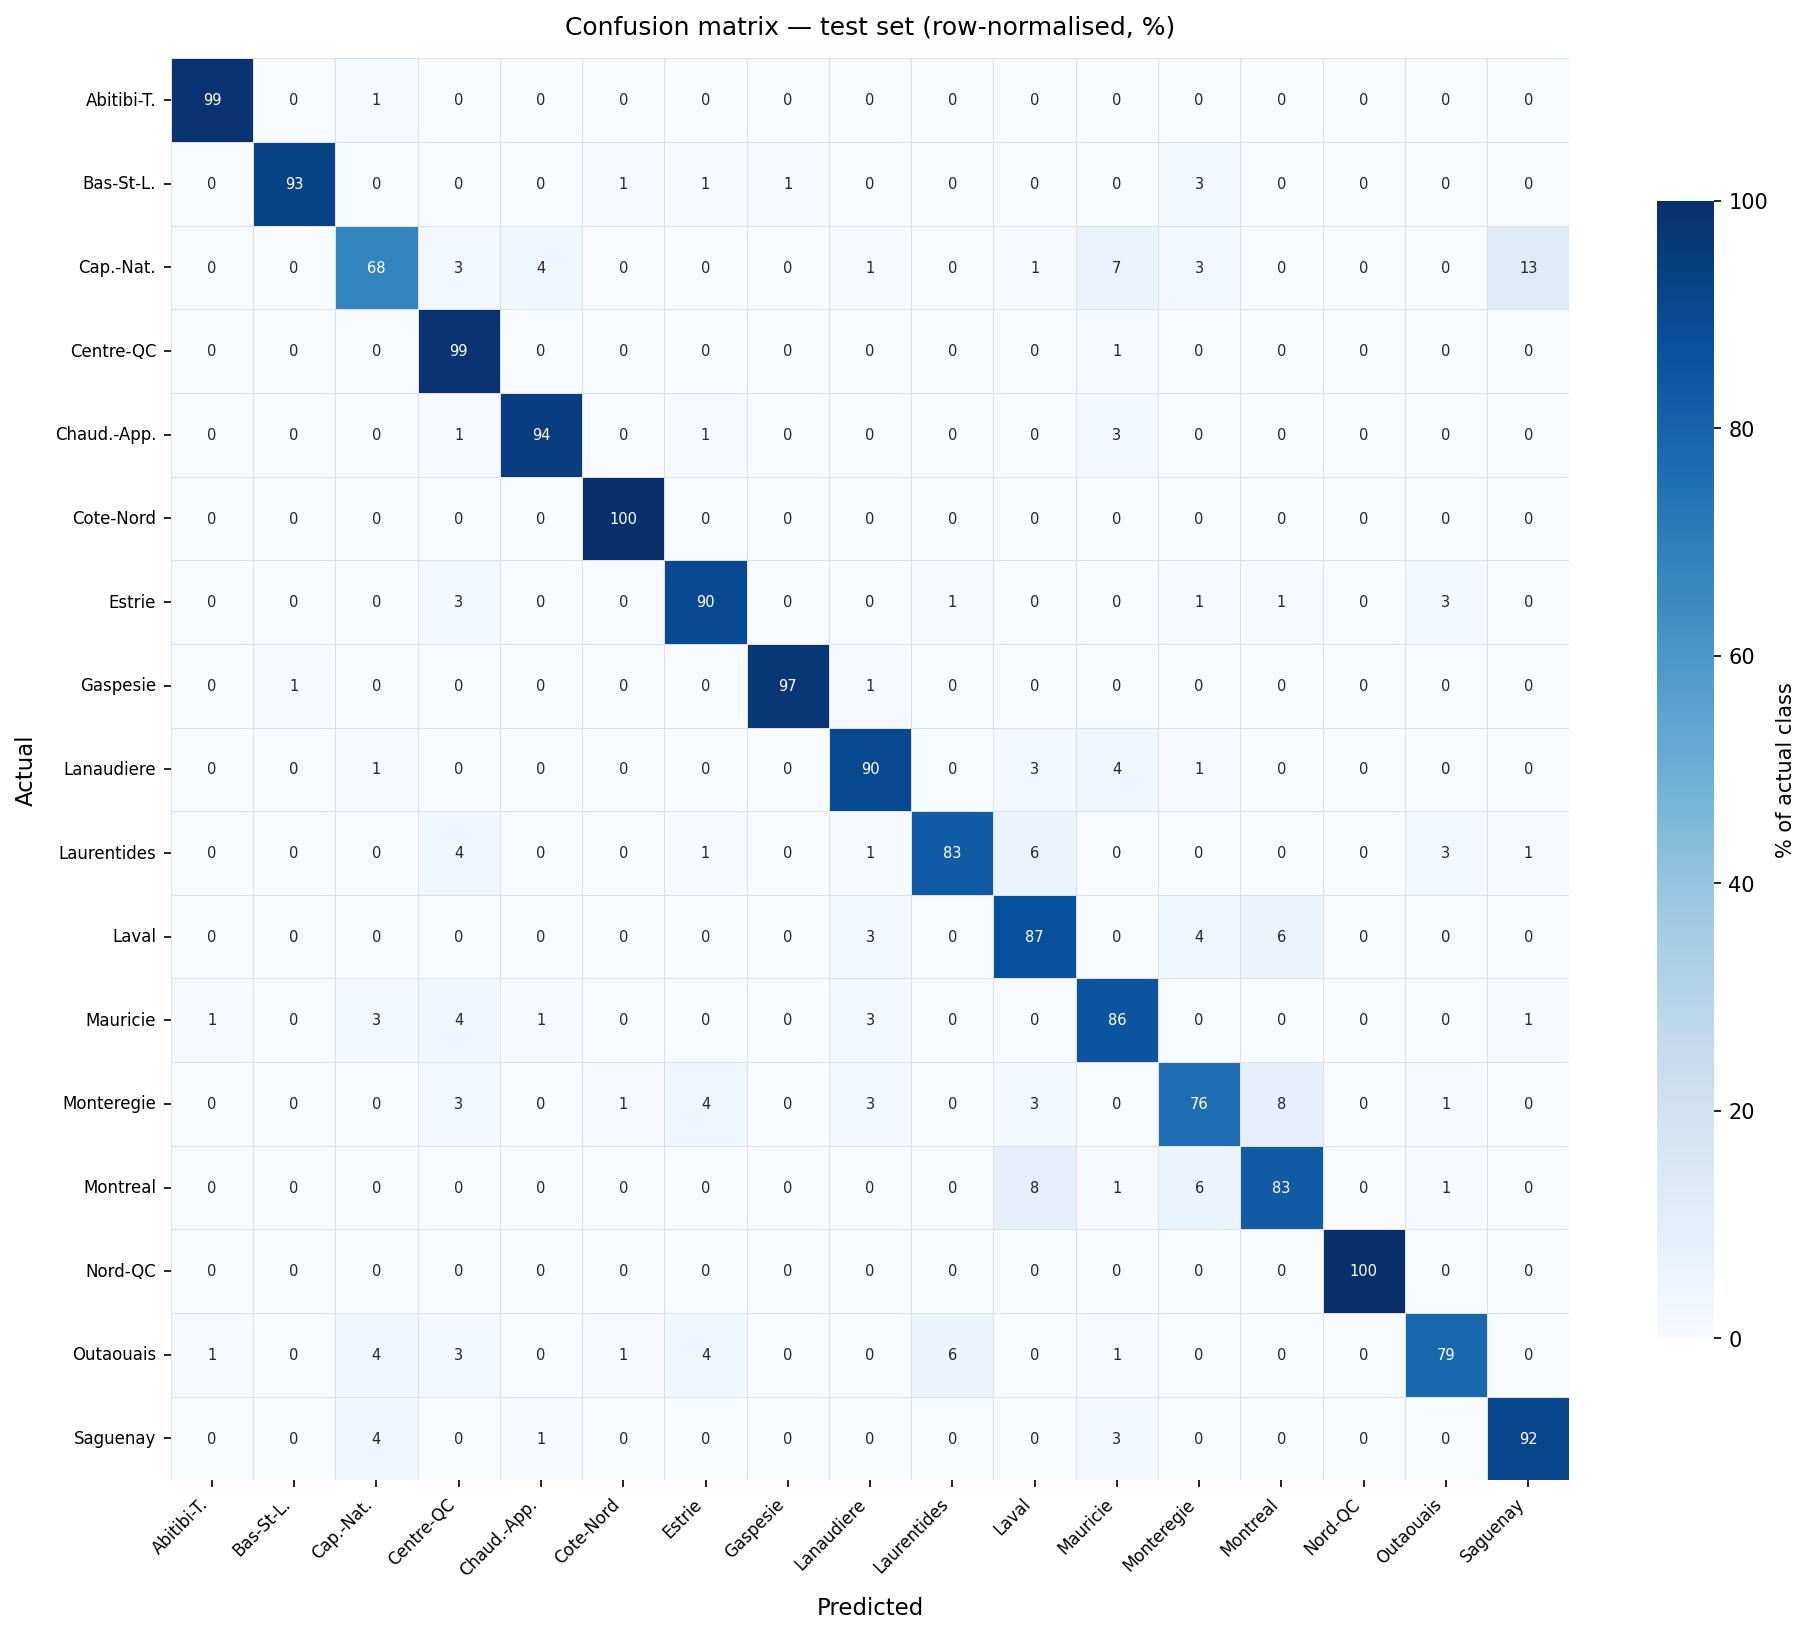
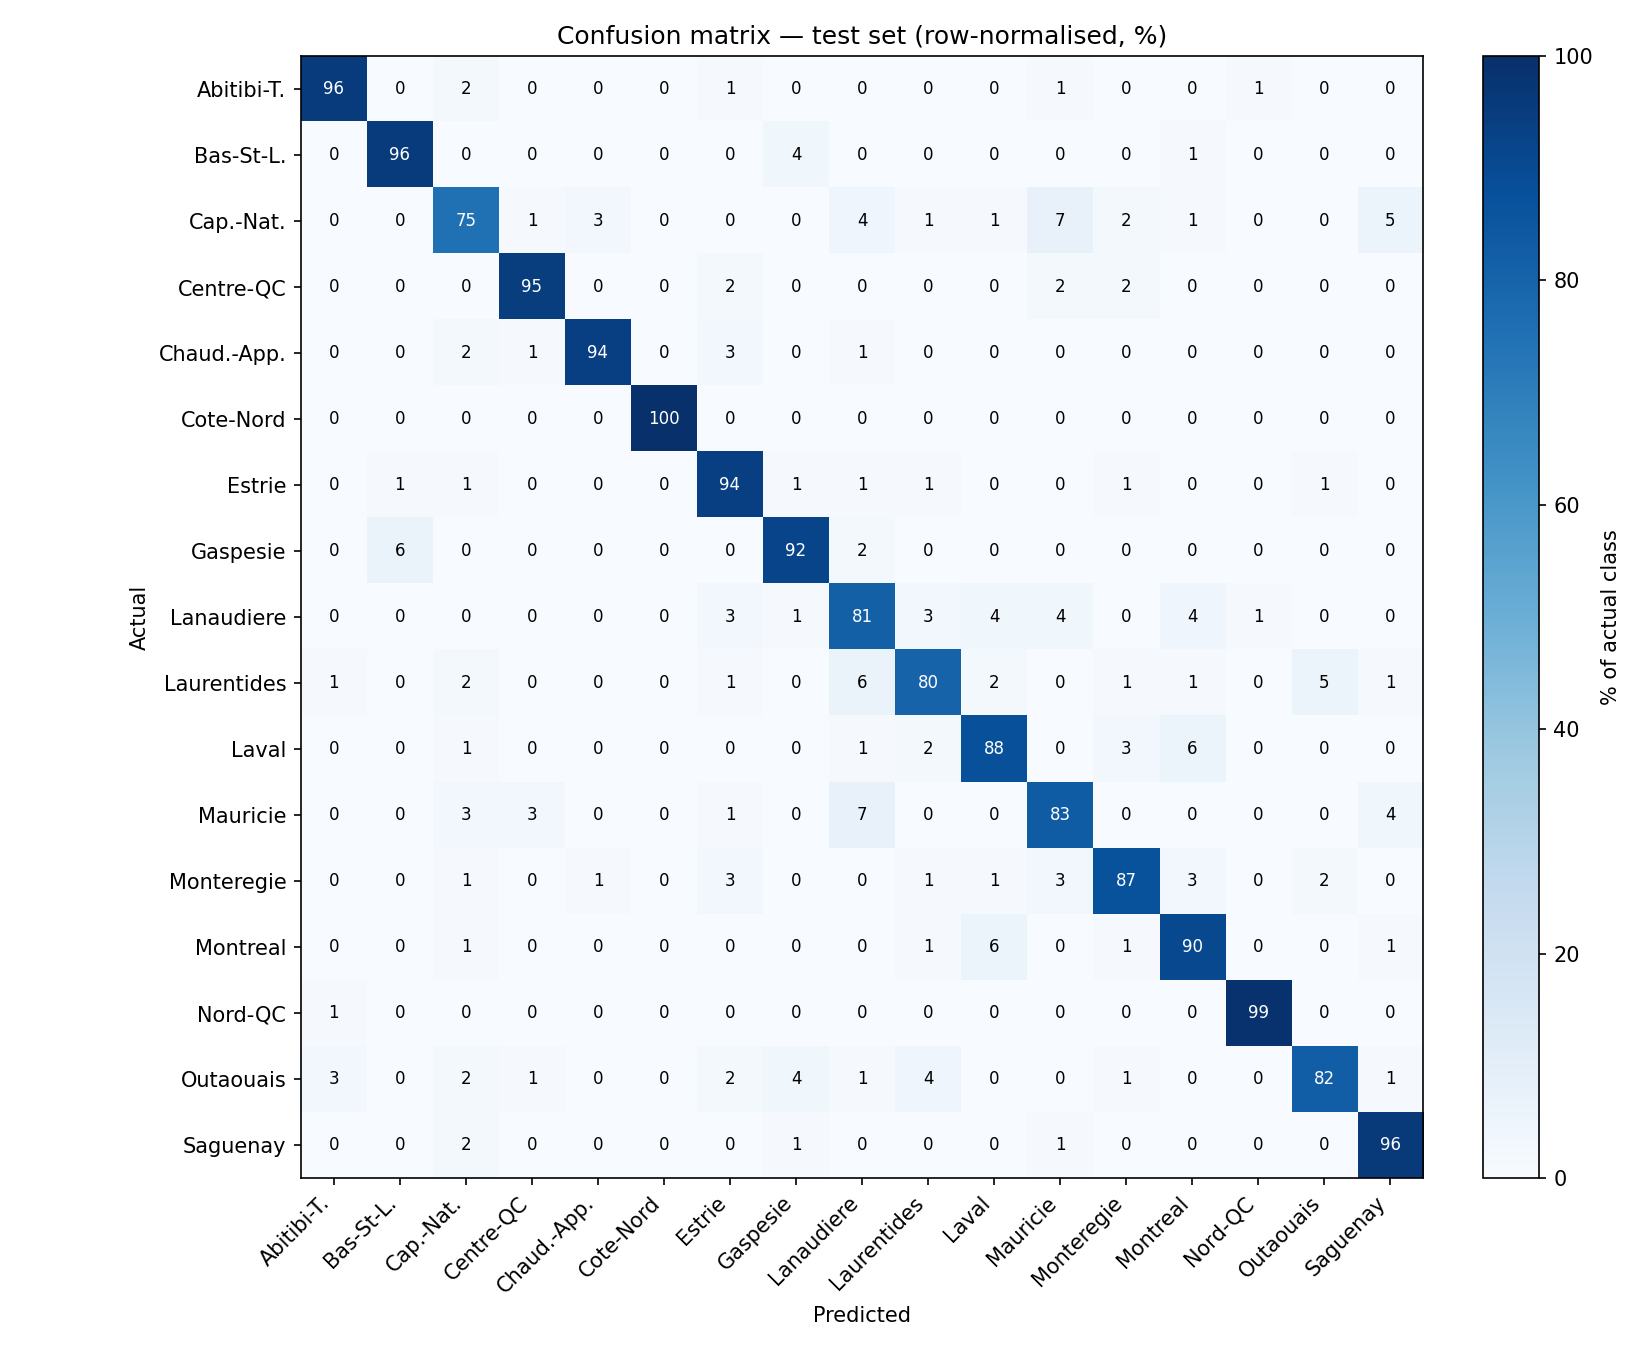
update readme with latest test results and add precision/recall/f1

diff --git a/README.md b/README.md
@@ -6,34 +6,42 @@ A fine-tuned EfficientNet-V2-M that classifies street-level photos into one of Q
 
 | Split      | Accuracy |
 |------------|----------|
-| Validation | 90.8%    |
-| Test       | 88.8%    |
+| Validation | 92.0%    |
+| Test       | 89.8%    |
 
 The ~2% gap between validation and test accuracy is expected: both splits are drawn from the same image pool, but the test set is held out from the beginning and never influences model selection. The remaining gap reflects genuinely ambiguous cases at administrative borders, where a street photo on either side of a boundary can look identical.
 
-### Per-region accuracy (test set)
+### Global metrics (test set, 1909 images)
 
-| Region                        | Accuracy |
-|-------------------------------|----------|
-| Cote-Nord                     | 100.0%   |
-| Nord-du-Quebec                | 100.0%   |
-| Abitibi-Temiscamingue         |  98.6%   |
-| Centre-du-Quebec              |  98.6%   |
-| Gaspesie-Iles-de-la-Madeleine |  97.2%   |
-| Chaudiere-Appalaches          |  94.4%   |
-| Bas-Saint-Laurent             |  92.9%   |
-| Saguenay-Lac-Saint-Jean       |  91.5%   |
-| Estrie                        |  90.1%   |
-| Lanaudiere                    |  90.1%   |
-| Laval                         |  87.3%   |
-| Mauricie                      |  85.9%   |
-| Laurentides                   |  83.1%   |
-| Montreal                      |  83.1%   |
-| Outaouais                     |  78.9%   |
-| Monteregie                    |  76.1%   |
-| Capitale-Nationale            |  67.6%   |
+| Metric    | Macro avg | Weighted avg |
+|-----------|-----------|--------------|
+| Precision | 0.899     | 0.899        |
+| Recall    | 0.898     | 0.898        |
+| F1-score  | 0.898     | 0.898        |
 
-Geographically isolated regions (Cote-Nord, Nord-du-Quebec, Abitibi-Temiscamingue) are nearly perfect. The main failure modes are adjacent urban or St. Lawrence valley pairs: Capitale-Nationale is confused with Saguenay-Lac-Saint-Jean (9 errors), and the Montreal metro cluster (Montreal / Laval / Monteregie) accounts for most of the remaining errors.
+### Per-region metrics (test set)
+
+| Region                         | Precision | Recall | F1-score |
+|--------------------------------|-----------|--------|----------|
+| Cote-Nord                      | 1.000     | 1.000  | 1.000    |
+| Nord-du-Quebec                 | 0.982     | 0.991  | 0.987    |
+| Abitibi-Temiscamingue          | 0.956     | 0.956  | 0.956    |
+| Chaudiere-Appalaches           | 0.963     | 0.938  | 0.950    |
+| Centre-du-Quebec               | 0.946     | 0.946  | 0.946    |
+| Bas-Saint-Laurent              | 0.930     | 0.955  | 0.943    |
+| Saguenay-Lac-Saint-Jean        | 0.893     | 0.964  | 0.927    |
+| Gaspesie-Iles-de-la-Madeleine  | 0.904     | 0.920  | 0.912    |
+| Estrie                         | 0.868     | 0.938  | 0.901    |
+| Monteregie                     | 0.899     | 0.867  | 0.883    |
+| Montreal                       | 0.850     | 0.903  | 0.876    |
+| Laval                          | 0.868     | 0.876  | 0.872    |
+| Outaouais                      | 0.911     | 0.821  | 0.864    |
+| Laurentides                    | 0.865     | 0.804  | 0.833    |
+| Mauricie                       | 0.830     | 0.830  | 0.830    |
+| Lanaudiere                     | 0.780     | 0.814  | 0.797    |
+| Capitale-Nationale             | 0.832     | 0.750  | 0.789    |
+
+Geographically isolated regions (Cote-Nord, Nord-du-Quebec, Abitibi-Temiscamingue) are nearly perfect. The main failure modes are adjacent urban or St. Lawrence valley pairs: Capitale-Nationale is confused with Mauricie and Saguenay-Lac-Saint-Jean, and the Montreal metro cluster (Montreal / Laval / Monteregie) accounts for most of the remaining errors.
 
 ### Confusion matrix
 
